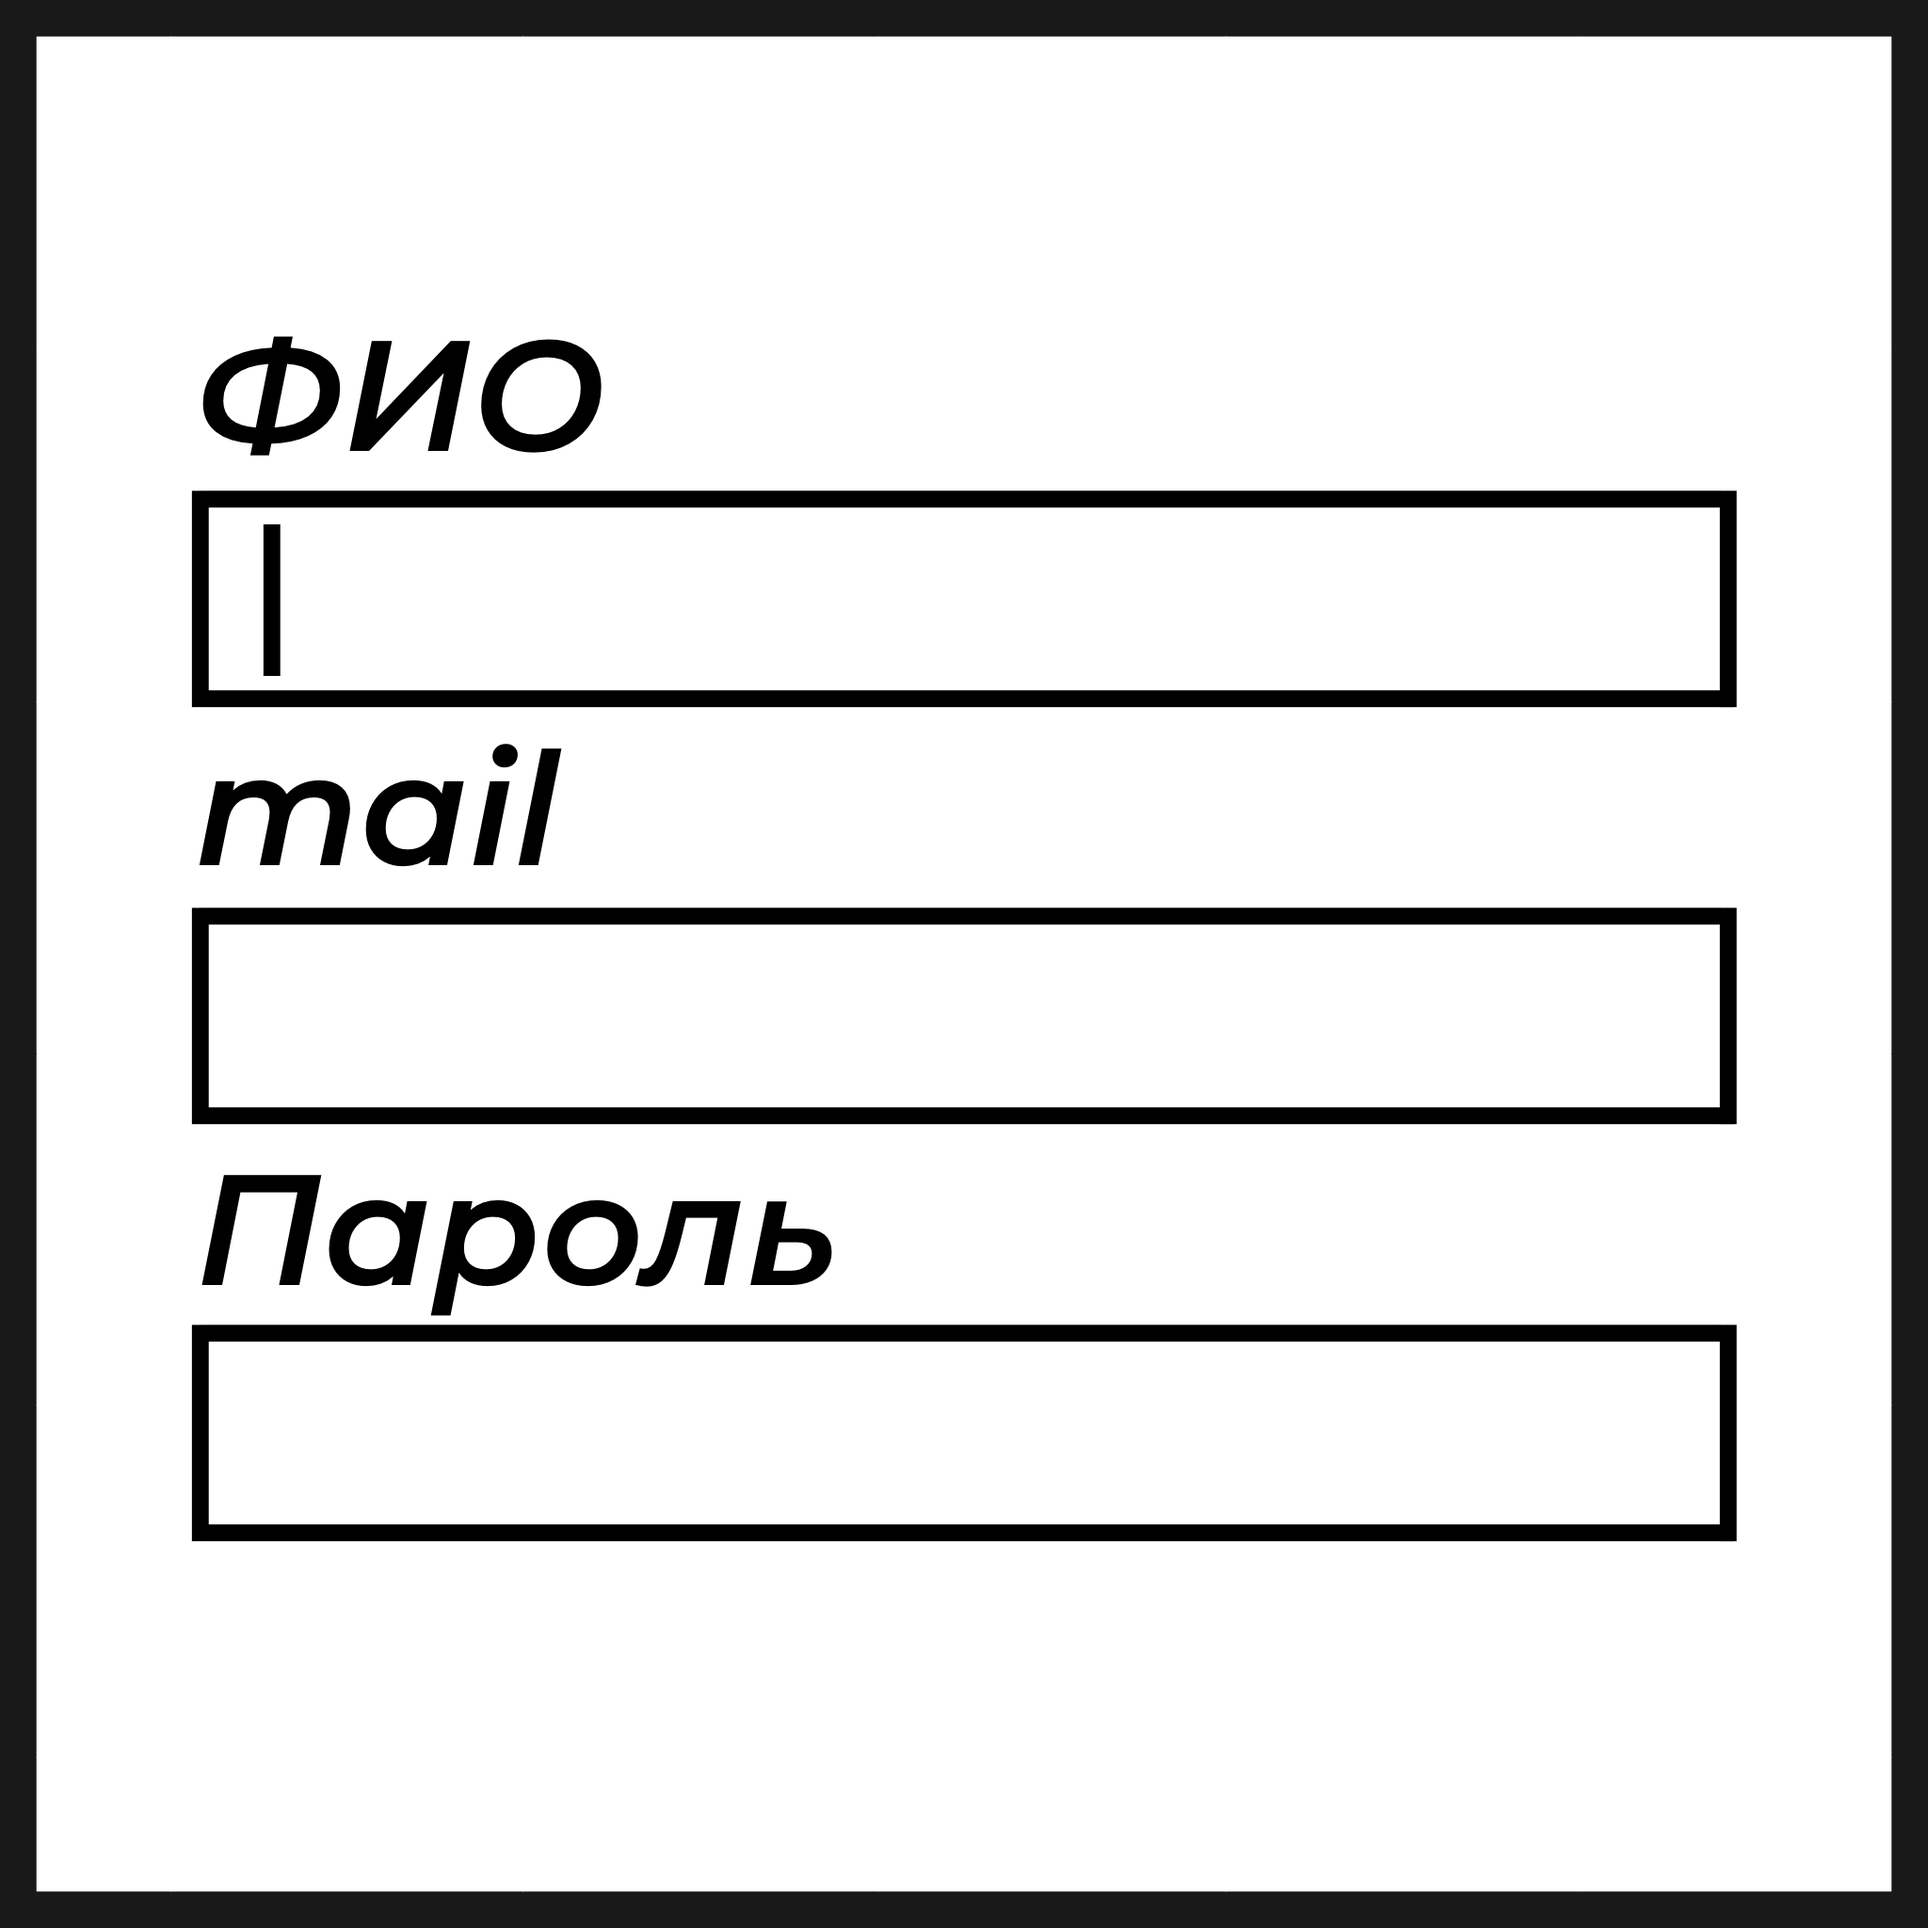
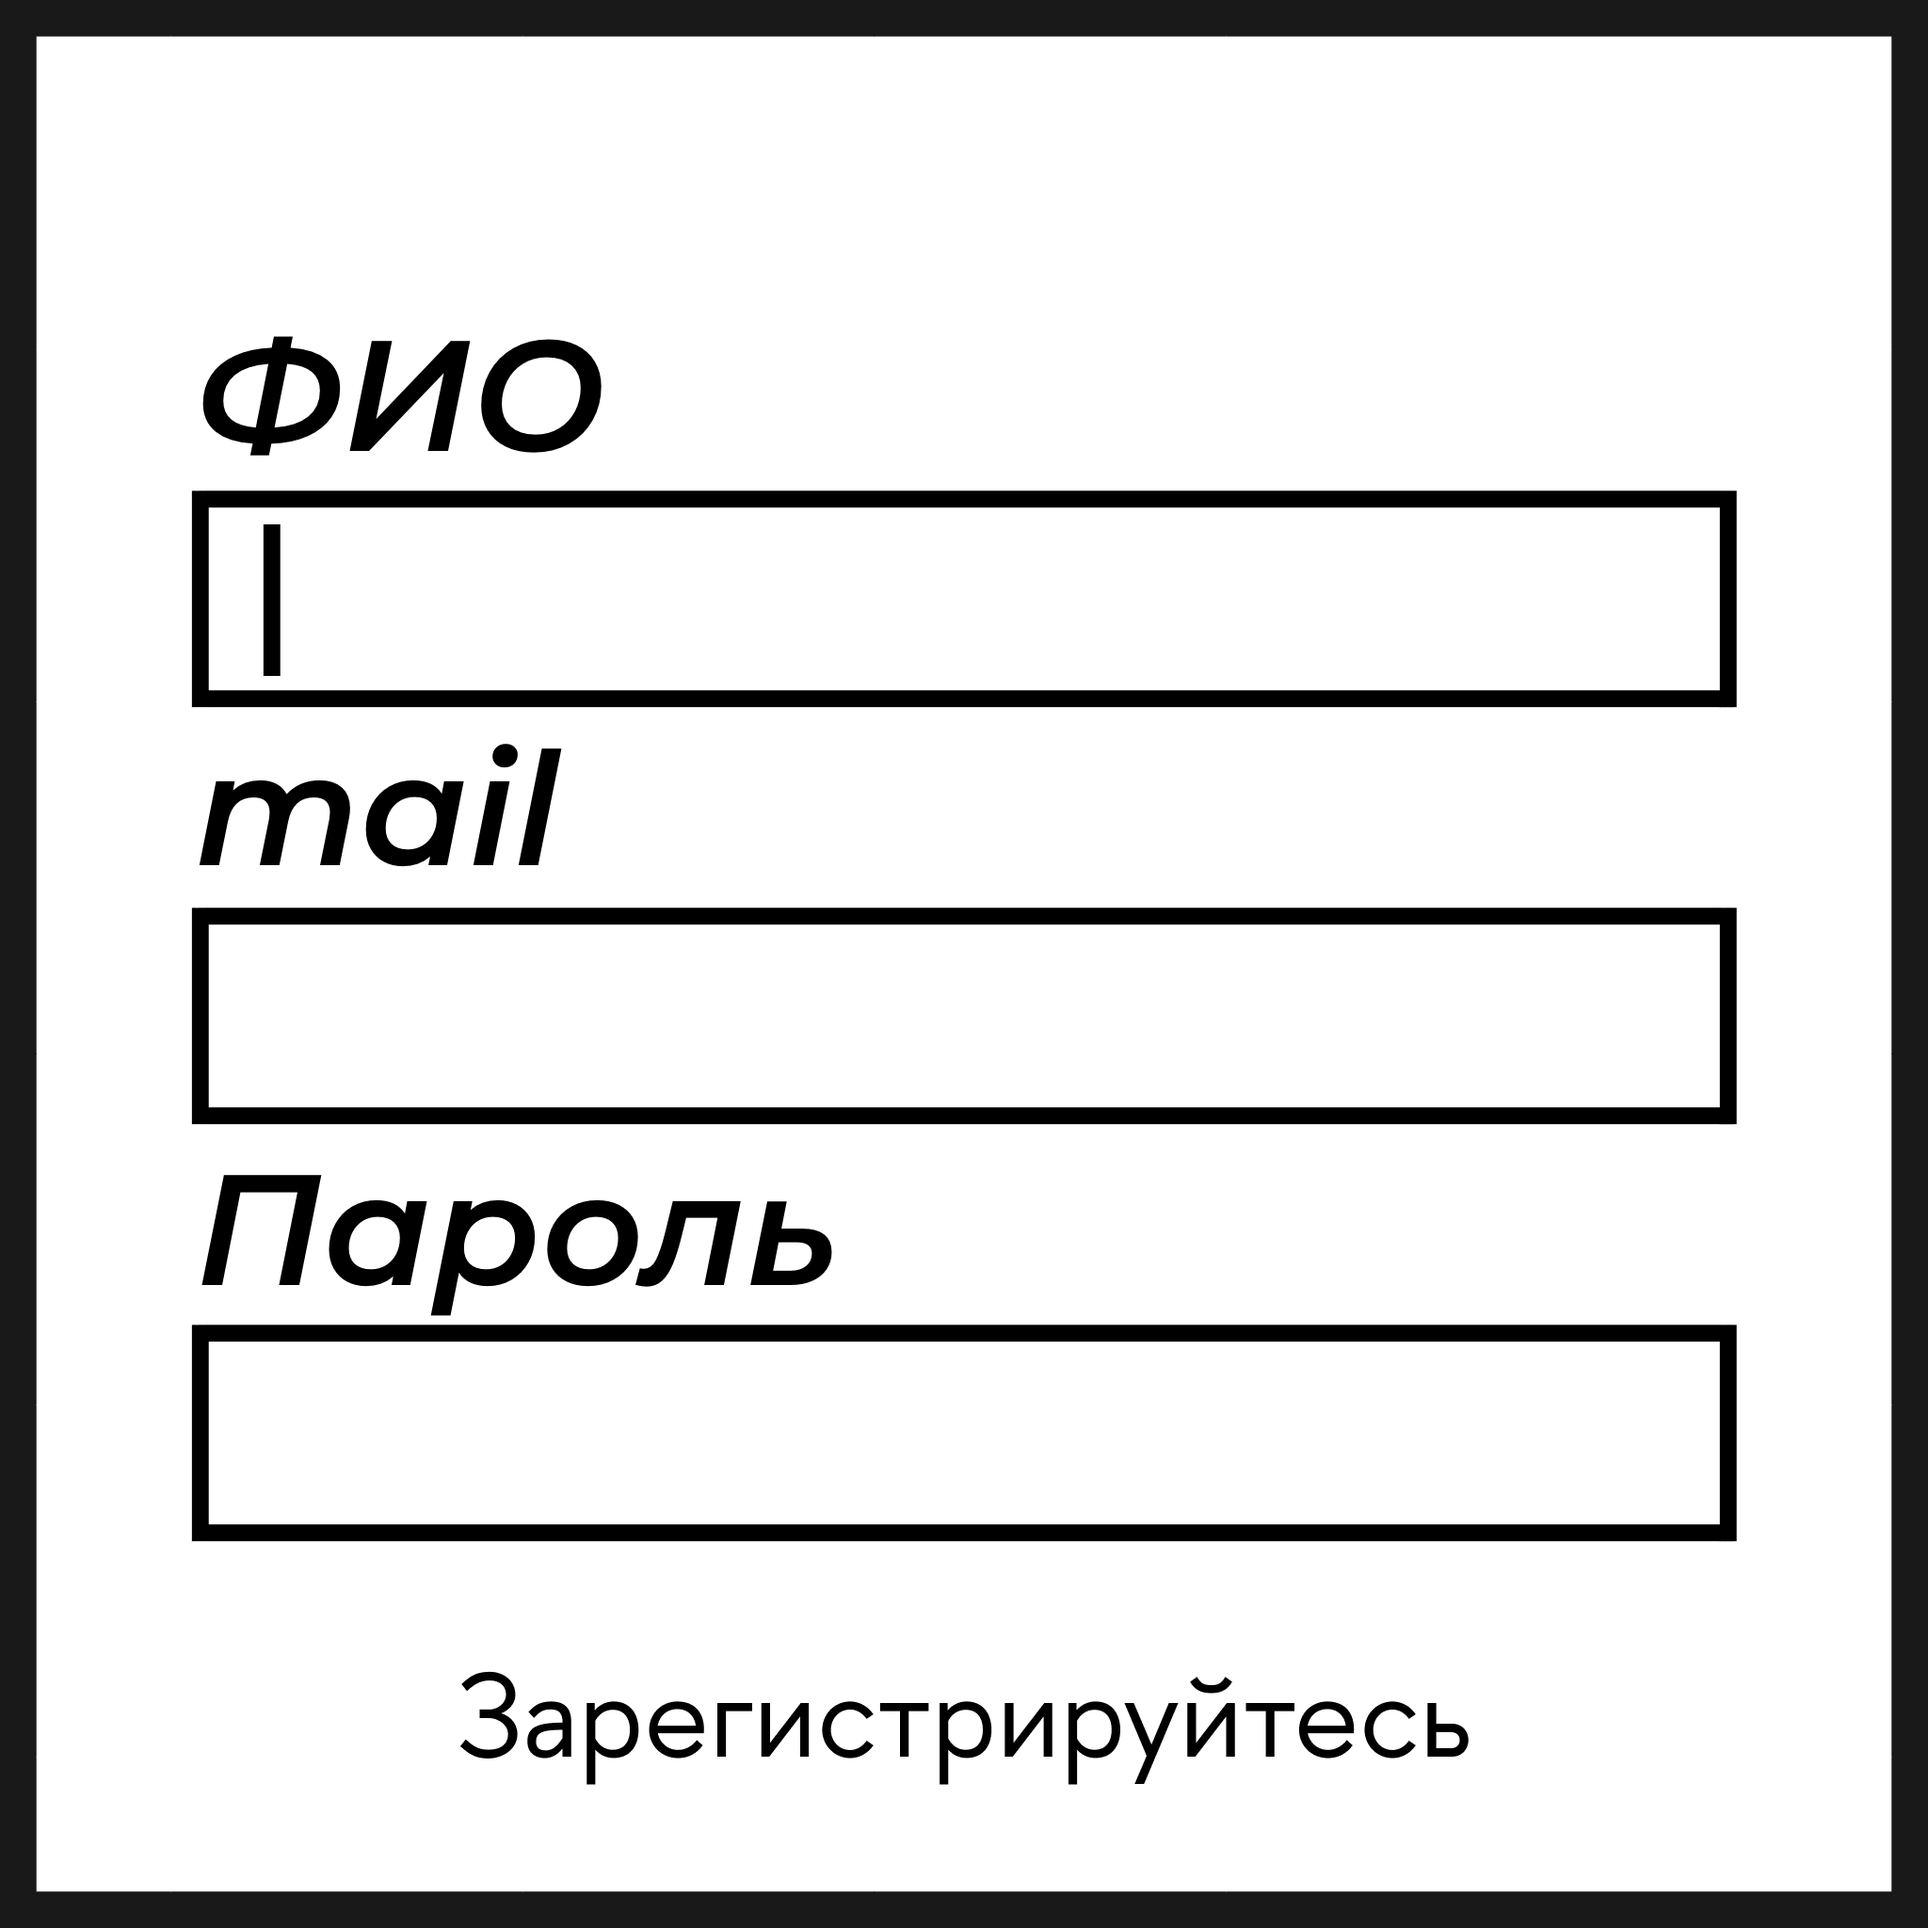
Mainpage updated

Changed region(s): [[0.25, 0.875, 0.75, 0.9375]]

diff --git a/src/components/InstructionsSlider.jsx b/src/components/InstructionsSlider.jsx
@@ -9,30 +9,18 @@ const InstructionsSlider = () => {
   <div className="carousel-inner">
     <div className="carousel-item active">
       <img src="/instruction_1.png" className="d-block w-100" alt="..."/>
-      <div class="carousel-caption d-none d-md-block">
-        <p className='carousel-instruction'>Откройте сайт lycadaptation.ru на телефоне</p>
-        </div>
     </div>
     <div className="carousel-item">
       <img src="/instruction_2.png" className="d-block w-100" alt="..."/>
-      <div class="carousel-caption d-none d-md-block">
-        <p className='carousel-instruction'>Откройте  'Мой аккаунт', чтобы увидеть  баллы</p>
-        </div>
 
     </div>
     <div className="carousel-item">
       <img src="/instruction_3.png" className="d-block w-100" alt="..."/>
-      <div class="carousel-caption d-none d-md-block">
-        <p className='carousel-instruction'>Просканируйте QR-код, полученный на Адаптации</p>
-        </div>
 
     </div>
 
     <div className="carousel-item">
       <img src="/instruction_4.png" className="d-block w-100" alt="..."/>
-      <div class="carousel-caption d-none d-md-block">
-        <p className='carousel-instruction'>Зарегистрируйтесь</p>
-        </div>
 
     </div>
 

diff --git a/src/styles/bootstrap.scss b/src/styles/bootstrap.scss
@@ -118,14 +118,14 @@ li,ul{
 
 // ---ГЛАВНАЯ СТРАНИЦА---
 .mainpage-title{
-    @extend .ps-4;
-    @extend .ms-4;
+    @extend .ps-3;
+    @extend .ms-3;
     @extend .display-1;
 }
 
 .mainpage-description{
-    @extend .ps-3;
-    @extend .ms-3;
+    @extend .ps-4;
+    @extend .ms-4;
     @extend .display-4;
     color: $secondary !important;
 }
@@ -135,14 +135,28 @@ li,ul{
     @extend .justify-content-center;
     @extend .flex-column;
     
-    @extend .mt-4;
-    @extend .ps-4;
     p{
-        color: $primary !important;
-        @extend .display-3;
+        color: $secondary!important;
+        @extend .h2;
         
     }
 }
+
+.home-section{
+
+    @extend .d-flex;
+    @extend .flex-column;    
+    @extend .ps-3;
+    @extend .ms-3;
+    @extend .mt-4;
+
+    p{
+        color: $primary !important;
+        @extend .display-3;
+    }
+    
+}
+
 
 
 .image-slider{

diff --git a/src/pages/Home.jsx b/src/pages/Home.jsx
@@ -11,8 +11,11 @@ const Home = ()=> {
 
     </div>
 
-    
+    <div className="home-section">
+      <p>Инструкция по использованию сайта</p>
     <InstructionsSlider/>
+    
+    </div>
     </>
 
   );
